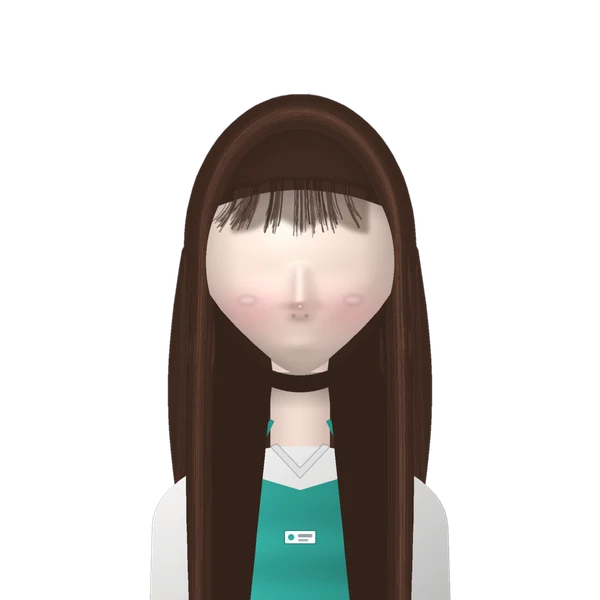
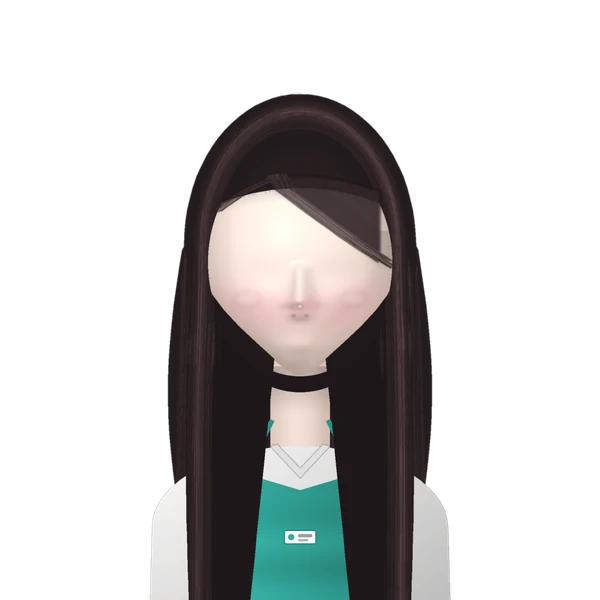
쇼호스트 얼굴 K-뷰티 스타일로 다듬기
- 사이드 스웹 프린지(왼쪽 가르마 → 오른쪽 이마 비스듬히), 긴 흑발, 아몬드형 눈(바깥 꼬리 올림)·진갈색 홍채·긴 속눈썹,
  일자 눈썹, 물광 하이라이트(광대·콧등), 넓고 옅은 복숭아 블러셔, 그라데이션 코랄 립, V 라인 턱, 목 그림자 완화
- 특정 실존 인물을 본뜨지 않은 창작 캐릭터 (레이어 9장 40KB)

Claude-Session: https://claude.ai/code/session_01QACgwmZuysuzoo8RdfQTyj

diff --git a/artifact/index.html b/artifact/index.html
@@ -14,4 +14,4 @@
   #app { position: absolute; }
 </style>
 <div id="app"></div>
-<script type="module" src="assets/index-Ck3dpsXJ.js"></script>
+<script type="module" src="assets/index-BpjJHnSh.js"></script>

diff --git a/tools/host-portrait.py b/tools/host-portrait.py
@@ -35,17 +35,17 @@ DEST = os.path.join(ROOT, 'src', 'assets', 'host')
 
 # ---------- 좌표 (600 기준) ----------
 HEAD_C = (300.0, 262.0)
-HEAD_A, HEAD_B = 100.0, 113.0  # 얼굴 타원 반경 (아래로 갈수록 좁아지는 V 라인)
+HEAD_A, HEAD_B = 98.0, 114.0  # 얼굴 타원 반경 (아래로 갈수록 좁아지는 V 라인)
 SKULL_C = (300.0, 246.0)
 SKULL_A, SKULL_B = 106.0, 146.0  # 두피(머리카락 뿌리) 타원
-EYE_Y = 276.0
+EYE_Y = 278.0
 EYE_L, EYE_R = 262.0, 338.0
-EYE_W = 26.0
+EYE_W = 27.0
 NOSE_TIP = (300.0, 309.0)
-MOUTH_Y = 337.0
-MOUTH_HW = 19.0
+MOUTH_Y = 335.0
+MOUTH_HW = 19.5
 NECK_HW = 30.0
-HAIRLINE = 190.0  # 이마 헤어라인(가운데)
+HAIRLINE = 188.0  # 이마 헤어라인(가운데)
 
 Yg, Xg = np.mgrid[0:S, 0:S].astype(np.float32)
 Xf = Xg / K
@@ -108,7 +108,7 @@ def ellipse_mask(cx, cy, a, b, taper=0.0):
 
 # ---------- 피부 ----------
 def face_height():
-    m, r = ellipse_mask(*HEAD_C, HEAD_A, HEAD_B, taper=0.52)
+    m, r = ellipse_mask(*HEAD_C, HEAD_A, HEAD_B, taper=0.62)
     h = np.sqrt(np.clip(1 - r * r, 0, 1)) * 120.0
     for ex in (EYE_L, EYE_R):
         h = h - gauss(ex, EYE_Y - 1, 24, 12, 5)
@@ -125,7 +125,7 @@ def face_height():
     return h, m
 
 
-def shade(albedo, h, key=(-0.4, -0.5, 0.77), fill=(0.6, 0.1, 0.8), amb=0.74, kd=0.27, kf=0.08, spec=0.03, shin=70):
+def shade(albedo, h, key=(-0.4, -0.5, 0.77), fill=(0.6, 0.1, 0.8), amb=0.77, kd=0.25, kf=0.08, spec=0.03, shin=70):
     gy, gx = np.gradient(h)
     gx = gx * K
     gy = gy * K
@@ -148,11 +148,12 @@ def shade(albedo, h, key=(-0.4, -0.5, 0.77), fill=(0.6, 0.1, 0.8), amb=0.74, kd=
 
 
 def skin_albedo():
-    base = np.array([1.0, 0.915, 0.87], np.float32)
+    base = np.array([1.0, 0.925, 0.885], np.float32)
     alb = np.ones((S, S, 3), np.float32) * base
     # 볼 홍조(복숭아빛) · 코끝 아주 살짝 · 눈가 약간
-    cheek = gauss(250, 310, 27, 16, 1.0) + gauss(350, 310, 27, 16, 1.0)
-    alb += cheek[..., None] * np.array([0.0, -0.10, -0.06])
+    # 복숭아빛 블러셔: 광대에서 콧등까지 넓고 옅게
+    cheek = gauss(252, 308, 30, 15, 1.0, rot=0.25) + gauss(348, 308, 30, 15, 1.0, rot=-0.25) + 0.4 * gauss(300, 300, 22, 6, 1.0)
+    alb += cheek[..., None] * np.array([0.0, -0.085, -0.05])
     nose = gauss(*NOSE_TIP, 9, 7, 1.0)
     alb += nose[..., None] * np.array([0.0, -0.03, -0.025])
     return np.clip(alb, 0, 1)
@@ -163,14 +164,14 @@ def hairline_y(x):
 
 
 # ---------- 머리카락 ----------
-HAIR_DARK = (60, 40, 32)
-HAIR_MID = (92, 62, 50)
+HAIR_DARK = (36, 28, 30)
+HAIR_MID = (64, 50, 50)
 
 
 def hair_color(lum, a=1.0):
-    r = int(min(255, 52 + 160 * lum))
-    g = int(min(255, 34 + 110 * lum))
-    b = int(min(255, 28 + 86 * lum))
+    r = int(min(255, 34 + 165 * lum))
+    g = int(min(255, 26 + 125 * lum))
+    b = int(min(255, 28 + 125 * lum))
     return (r, g, b, int(255 * a))
 
 
@@ -226,7 +227,7 @@ def draw_front_hair():
         poly = []
         for y in np.linspace(230, 600, 24):
             dyn = (y - HEAD_C[1]) / HEAD_B
-            tap = 1 - 0.52 * min(1.0, max(0.0, dyn)) ** 2
+            tap = 1 - 0.62 * min(1.0, max(0.0, dyn)) ** 2
             face_x = HEAD_A * tap * math.sqrt(max(0.0, 1 - dyn * dyn)) if abs(dyn) < 1 else 0.0
             # 얼굴 안쪽으로 살짝(10px) 겹쳐 얼굴 옆선을 덮고, 턱 아래로는 목 옆을 따라 내려간다
             inner_x = (300 + sgn * (face_x - 2 + 2 * math.sin((y - 230) / 22))) if y < 362 else 300 + sgn * (26 + (y - 362) * 0.1)
@@ -280,29 +281,52 @@ def draw_front_hair():
             y = 340 + rng.uniform(-14, 14) + abs(x - 300 - sgn * 98) * 0.5
             gd.line([P(x, y - 18), P(x + sgn * 1.2, y + 18)], fill=hair_color(rng.uniform(0.45, 0.8), rng.uniform(0.12, 0.3)), width=max(1, int(K * rng.uniform(0.5, 1.0))))
     hair.alpha_composite(with_mask(blur(gl, 0.6), total))
-    # 시스루 뱅: 이마 위로 가늘게 떨어지는 앞머리 (피부가 비쳐 보이게 성글게)
-    bang = new_layer()
-    bd = ImageDraw.Draw(bang)
-    # 뱅 바탕: 반투명 페더링 면 (피부가 비치는 시스루)
-    bfill = new_layer()
-    bfd = ImageDraw.Draw(bfill)
-    top = [P(x, hairline_y(x) - 12) for x in np.linspace(232, 368, 40)]
-    bottom = [P(x, hairline_y(x) + 32 + 7 * math.sin((x - 232) / 9.0) * (1 - abs(x - 300) / 80)) for x in np.linspace(368, 232, 40)]
-    bfd.polygon(top + bottom, fill=hair_color(0.12, 0.5))
-    hair.alpha_composite(blur(bfill, 2.2))
-    clusters = [rng.uniform(232, 368) for _ in range(14)]
-    for i in range(130):
-        c = rng.choice(clusters)
-        x0 = c + rng.gauss(0, 2.2)
-        y0 = hairline_y(x0) - 10
-        sway = (x0 - 300) / 55
+    # 옆으로 넘긴 앞머리(사이드 스웹 프린지): 왼쪽 가르마(x≈272)에서 오른쪽 아래로 쓸어 넘겨 이마 오른쪽을 비스듬히 덮는다
+    fringe = new_layer()
+    frd = ImageDraw.Draw(fringe)
+    under = new_layer()
+    und = ImageDraw.Draw(under)
+    sweep = []
+    for k in range(40):
+        t = k / 39
+        x = 268 + 112 * t
+        y = hairline_y(268) - 8 + 78 * t ** 1.1 + 4 * math.sin(t * 3.0)
+        sweep.append((x, y))
+    # 밑면(반투명) — 가르마에서 시작해 쓸어 넘긴 머리의 두께
+    poly = [P(x, hairline_y(x) - 12) for x in np.linspace(268, 380, 30)] + [P(*pt) for pt in sweep[::-1]]
+    und.polygon(poly, fill=hair_color(0.1, 0.9))
+    fringe.alpha_composite(blur(under, 1.2))
+    for i in range(260):
+        t0 = rng.random() ** 0.8
+        x0 = 268 + 16 * t0 + rng.uniform(-3, 3)
+        y0 = hairline_y(x0) - 12 + rng.uniform(-4, 2)
+        reach = rng.uniform(0.55, 1.0)
         pts3 = [P(x0, y0)]
-        length = rng.uniform(36, 58) * (1 - 0.3 * abs(x0 - 300) / 70) + rng.gauss(0, 2)
-        for k in range(1, 9):
-            t = k / 8
-            pts3.append(P(x0 + sway * 14 * t * t + rng.uniform(-0.25, 0.25), y0 + length * t))
-        bd.line(pts3, fill=hair_color(rng.uniform(0.0, 0.2), rng.uniform(0.55, 0.95)), width=max(1, int(K * rng.uniform(0.7, 1.5))))
-    hair.alpha_composite(blur(bang, 0.3))
+        for k in range(1, 12):
+            t = k / 11 * reach
+            x = x0 + 112 * t + rng.uniform(-0.3, 0.3)
+            y = y0 + 4 + 78 * t ** 1.1 + 4 * math.sin(t * 3.0) + rng.uniform(-0.3, 0.3) + 10 * t0
+            pts3.append(P(x, y))
+        frd.line(pts3, fill=hair_color(rng.uniform(0.0, 0.3), rng.uniform(0.6, 0.95)), width=max(1, int(K * rng.uniform(0.7, 1.5))))
+    # 왼쪽으로 짧게 넘어가는 몇 가닥 (관자놀이 덮기)
+    for i in range(40):
+        x0 = 268 + rng.uniform(-4, 4)
+        y0 = hairline_y(x0) - 10 + rng.uniform(-3, 3)
+        pts3 = [P(x0, y0)]
+        for k in range(1, 8):
+            t = k / 7
+            pts3.append(P(x0 - 48 * t - rng.uniform(0, 0.4), y0 + 2 + 26 * t ** 1.4 + rng.uniform(-0.3, 0.3)))
+        frd.line(pts3, fill=hair_color(rng.uniform(0.0, 0.3), rng.uniform(0.6, 0.95)), width=max(1, int(K * rng.uniform(0.7, 1.4))))
+    hair.alpha_composite(blur(fringe, 0.25))
+    baby = new_layer()
+    bbd = ImageDraw.Draw(baby)
+    for i in range(80):
+        x0 = rng.uniform(214, 386)
+        y0 = hairline_y(x0) + rng.uniform(-1, 3)
+        dirx = (x0 - 300) / 90 + rng.uniform(-0.5, 0.5)
+        pts3 = [P(x0, y0), P(x0 + dirx * 3, y0 - 3 - rng.uniform(0, 3)), P(x0 + dirx * 7, y0 - 6 - rng.uniform(0, 5))]
+        bbd.line(pts3, fill=hair_color(rng.uniform(0.05, 0.3), rng.uniform(0.25, 0.6)), width=max(1, int(K * 0.6)))
+    hair.alpha_composite(blur(baby, 0.2))
     # 윤곽 밖 잔머리
     fly = new_layer()
     fd = ImageDraw.Draw(fly)
@@ -329,7 +353,7 @@ def draw_base():
     neck_mask = (np.abs(nx) < 1) & (Yf > 330) & (Yf < 470)
     nh = np.where(neck_mask, np.sqrt(np.clip(1 - nx * nx, 0, 1)) * 40, 0)
     neck_rgb = shade(skin_albedo() * 0.985, nh, amb=0.74, kd=0.2)
-    shadow = 1 - 0.30 * np.clip(1 - (Yf - 384) / 26, 0, 1) * (Yf > 372)
+    shadow = 1 - 0.20 * np.clip(1 - (Yf - 378) / 34, 0, 1) * (Yf > 366)
     neck_rgb *= shadow[..., None]
     layer.alpha_composite(to_img(neck_rgb, neck_mask.astype(np.float32)))
     # --- 블라우스 + 앞치마 (어깨는 좁고 둥글게) ---
@@ -361,11 +385,14 @@ def draw_base():
     sd.rounded_rectangle([P(298, 539), P(308, 541)], radius=1 * K, fill=(170, 180, 185, 255))
     # --- 얼굴 피부 ---
     h, m = face_height()
-    _, r_face = ellipse_mask(*HEAD_C, HEAD_A, HEAD_B, taper=0.52)
+    _, r_face = ellipse_mask(*HEAD_C, HEAD_A, HEAD_B, taper=0.62)
     rgb = shade(skin_albedo(), h)
     # 앞머리·옆머리 그늘 (이마 윗부분, 얼굴 양옆)
     hl = hairline_y(Xf)
-    rgb *= (1 - 0.14 * np.clip((hl + 18 - Yf) / 18, 0, 1) * (Yf > hl - 2))[..., None]
+    rgb *= (1 - 0.10 * np.clip((hl + 12 - Yf) / 12, 0, 1) * (Yf > hl - 2))[..., None]
+    # 쓸어 넘긴 앞머리 아래 그늘 (이마 오른쪽, 비스듬히)
+    fr_y = hairline_y(268) - 8 + 78 * np.clip((Xf - 268) / 112, 0, 1) ** 1.1
+    rgb *= (1 - 0.12 * np.clip((fr_y + 10 - Yf) / 10, 0, 1) * (Yf > fr_y - 30) * (Xf > 272))[..., None]
     side_sh = np.clip((np.abs(Xf - 300) - 62) / 36, 0, 1) * (Yf < 372) * (Yf > 200)
     rgb *= (1 - 0.12 * side_sh)[..., None]
     # 턱선 둥글게: 얼굴 아래쪽 가장자리로 갈수록 살짝 어둡게
@@ -385,12 +412,14 @@ def draw_base():
     for sgn in (-1, 1):
         nd.ellipse([P(300 + sgn * 6.5 - 1.6, 314.5), P(300 + sgn * 6.5 + 1.6, 316.7)], fill=(170, 110, 105, 110))
     layer.alpha_composite(blur(nos, 0.7))
-    # 볼 하이라이트(촉촉함)
+    # 물광 하이라이트: 광대·콧등·이마·턱
     hi = new_layer()
     hd = ImageDraw.Draw(hi)
-    hd.ellipse([P(238, 296), P(256, 304)], fill=(255, 250, 248, 70))
-    hd.ellipse([P(344, 296), P(362, 304)], fill=(255, 250, 248, 70))
-    layer.alpha_composite(blur(hi, 2.0))
+    hd.ellipse([P(234, 292), P(260, 306)], fill=(255, 250, 248, 40))
+    hd.ellipse([P(340, 292), P(366, 306)], fill=(255, 250, 248, 40))
+    hd.line([P(300, 266), P(300, 298)], fill=(255, 250, 246, 34), width=int(2 * K))
+    hd.ellipse([P(293, 360), P(307, 366)], fill=(255, 248, 244, 55))
+    layer.alpha_composite(blur(hi, 3.2))
     # --- 앞머리 ---
     layer.alpha_composite(draw_front_hair())
     return layer
@@ -400,17 +429,17 @@ def draw_base():
 def eye_curves(cx, side, o):
     """o=뜬 정도 0..1. side -1 왼눈 +1 오른눈(바깥쪽 방향). 바깥 끝이 살짝 올라간 아몬드형"""
     w = EYE_W
-    hu = 15.0 * o
-    hl = 7.5 * (0.5 + 0.5 * o)
-    inner = (cx - w * side, EYE_Y + 2.5)
-    outer = (cx + w * side, EYE_Y - 1.5 - 1.0 * o)
+    hu = 13.5 * o
+    hl = 7.0 * (0.5 + 0.5 * o)
+    inner = (cx - w * side, EYE_Y + 3.0)
+    outer = (cx + w * side, EYE_Y - 3.0 - 1.0 * o)
     up, lo = [], []
     for k in range(41):
         t = k / 40
         u = -1 + 2 * t
         x = inner[0] + (outer[0] - inner[0]) * t
         base_y = inner[1] + (outer[1] - inner[1]) * t
-        f = max(0.0, 1 - u * u) ** 0.7 * (1 + 0.12 * u)
+        f = max(0.0, 1 - u * u) ** 0.65 * (1 + 0.16 * u)
         up.append((x, base_y - hu * f))
         g = max(0.0, 1 - u * u) ** 0.85
         lo.append((x, base_y + hl * g))
@@ -432,7 +461,7 @@ def draw_eyes(o):
         sc *= (0.94 + 0.06 * np.clip(1 - np.abs(Xf - cx) / EYE_W, 0, 1))[..., None]
         layer.alpha_composite(to_img(sc, ca))
         # 홍채: 크게(눈 폭의 60%), 따뜻한 갈색, 아래쪽이 밝은 그라데이션
-        icx, icy, r = cx + 0.4 * side, EYE_Y + 1.0, 15.6
+        icx, icy, r = cx + 0.6 * side, EYE_Y + 1.2, 15.2
         dx, dy = Xf - icx, Yf - icy
         rr = np.sqrt(dx * dx + dy * dy) / r
         ang = np.arctan2(dy, dx)
@@ -442,9 +471,9 @@ def draw_eyes(o):
         lum = lum * (0.85 + 0.3 * fibers * np.clip(1 - np.abs(rr - 0.6) / 0.4, 0, 1))
         lum *= 1 - 0.6 * smoothstep(0.86, 1.0, rr)  # 테두리 어둡게
         lum *= 1 - 0.3 * np.clip(1 - (Yf - (icy - r)) / 7, 0, 1)  # 윗꺼풀 그늘
-        iris = np.stack([0.50 * lum * 1.15, 0.30 * lum * 1.0, 0.20 * lum * 0.95], -1)
-        # 홍채 아래쪽에 호박빛 반사
-        iris += (np.clip(dy / r - 0.2, 0, 1) * 0.35 * inside)[..., None] * np.array([0.45, 0.30, 0.12])
+        iris = np.stack([0.34 * lum * 1.1, 0.21 * lum * 1.0, 0.17 * lum * 1.0], -1)
+        # 홍채 아래쪽에 갈색 반사
+        iris += (np.clip(dy / r - 0.25, 0, 1) * 0.30 * inside)[..., None] * np.array([0.40, 0.24, 0.12])
         ir = to_img(np.clip(iris, 0, 1), inside * ca)
         pd = ImageDraw.Draw(ir)
         pr = 6.2
@@ -457,13 +486,13 @@ def draw_eyes(o):
         # 속눈썹 라인(부드러운 다크 브라운) + 바깥쪽 긴 속눈썹 몇 가닥
         lash = new_layer()
         ld = ImageDraw.Draw(lash)
-        ld.line([P(*p) for p in up], fill=(58, 34, 30, 235), width=int(1.9 * K))
+        ld.line([P(*p) for p in up], fill=(48, 30, 30, 240), width=int(1.9 * K))
         ld.line([P(*up[-1]), P(up[-1][0] + 4.5 * side, up[-1][1] - 2.4)], fill=(58, 34, 30, 220), width=int(1.5 * K))
         for k in range(14, 40, 3):
             x, y = up[k]
             u = -1 + 2 * (k / 40)
             ang2 = math.radians(-90 + side * (20 + 42 * u))
-            ln = (4.0 + 5.0 * max(0.0, u)) * (0.5 + 0.5 * o)
+            ln = (4.5 + 6.0 * max(0.0, u)) * (0.5 + 0.5 * o)
             xm = x + math.cos(ang2) * ln * 0.5
             ym = y + math.sin(ang2) * ln * 0.55
             x2 = x + math.cos(ang2) * ln + side * 0.8
@@ -511,19 +540,19 @@ def draw_brows():
         for k in range(31):
             t = k / 30
             x = cx + side * (-20 + 46 * t)
-            y = EYE_Y - 25 - 4.5 * math.sin(math.pi * min(1, t * 1.1)) + 4 * max(0, t - 0.75) * 4
+            y = EYE_Y - 26 - 3.0 * math.sin(math.pi * min(1, t * 1.1)) + 4 * max(0, t - 0.75) * 3
             pts.append((x, y))
         under = new_layer()
         ud = ImageDraw.Draw(under)
         for k in range(30):
             w = (3.2 - 1.6 * max(0, (k / 30) - 0.5) * 2) * K
-            ud.line([P(*pts[k]), P(*pts[k + 1])], fill=(118, 84, 70, 185), width=max(1, int(w)))
+            ud.line([P(*pts[k]), P(*pts[k + 1])], fill=(96, 68, 60, 200), width=max(1, int(w)))
         layer.alpha_composite(blur(under, 1.1))
         d = ImageDraw.Draw(layer)
         for i in range(120):
             t = rng.random() ** 0.9
             x = cx + side * (-20 + 46 * t) + rng.uniform(-0.6, 0.6)
-            y = EYE_Y - 25 - 4.5 * math.sin(math.pi * min(1, t * 1.1)) + 4 * max(0, t - 0.75) * 4 + rng.uniform(-1.2, 1.2)
+            y = EYE_Y - 26 - 3.0 * math.sin(math.pi * min(1, t * 1.1)) + 4 * max(0, t - 0.75) * 3 + rng.uniform(-1.2, 1.2)
             ang = math.radians((-70 + 80 * t) if t < 0.5 else (8 + 14 * (t - 0.5)))
             if side < 0:
                 ang = math.pi - ang
@@ -540,7 +569,7 @@ def draw_mouth(state):
     gap = {'closed': 0.0, 'mid': 4.0, 'open': 8.5}[state]
     hw = MOUTH_HW + (0 if state == 'closed' else 1.0)
     cy = MOUTH_Y
-    corner_up = 3.2 if state == 'closed' else 2.0
+    corner_up = 3.4 if state == 'closed' else 2.2
     lc = (300 - hw, cy - corner_up)
     rc = (300 + hw, cy - corner_up)
     up_top, up_bot, lo_top, lo_bot = [], [], [], []
@@ -576,8 +605,8 @@ def draw_mouth(state):
     # 입술: 코랄 핑크, 글로시
     lips = new_layer()
     ld = ImageDraw.Draw(lips)
-    ld.polygon([P(*p) for p in (up_top + up_bot[::-1])], fill=(226, 118, 128, 255))
-    ld.polygon([P(*p) for p in (lo_top + lo_bot[::-1])], fill=(240, 140, 148, 255))
+    ld.polygon([P(*p) for p in (up_top + up_bot[::-1])], fill=(238, 142, 140, 255))
+    ld.polygon([P(*p) for p in (lo_top + lo_bot[::-1])], fill=(246, 160, 156, 255))
     la = np.asarray(lips).astype(np.float32)
     upper = Yf < cy - gap * 0.2
     sh = np.where(upper, 1 - 0.14 * np.clip((Yf - (cy - 6)) / 6, 0, 1), 1.0)
@@ -585,7 +614,13 @@ def draw_mouth(state):
     sh = sh * (1 + 0.40 * low_hi * (~upper)) * np.where(~upper, 1 - 0.22 * np.clip((Yf - (cy + 5 + gap * 0.45)) / 5, 0, 1), 1)
     sh = sh * (1 - 0.30 * np.clip((np.abs(Xf - 300) - hw * 0.6) / (hw * 0.4), 0, 1))
     la[..., :3] *= sh[..., None]
-    lips = blur(Image.fromarray(np.clip(la, 0, 255).astype(np.uint8), 'RGBA'), 0.45)
+    # 그라데이션 립: 안쪽(입선 근처)은 진한 코랄, 바깥은 피부로 번지듯
+    core = np.exp(-0.5 * (((Xf - 300) / (hw * 0.55)) ** 2 + ((Yf - cy - gap * 0.2) / 4.5) ** 2))
+    la[..., 0] = la[..., 0] * (1 - 0.02 * core)
+    la[..., 1] = la[..., 1] * (1 - 0.30 * core)
+    la[..., 2] = la[..., 2] * (1 - 0.28 * core)
+    la[..., 3] *= 1 - 0.35 * np.clip((np.abs(Xf - 300) - hw * 0.7) / (hw * 0.3), 0, 1)
+    lips = blur(Image.fromarray(np.clip(la, 0, 255).astype(np.uint8), 'RGBA'), 0.8)
     layer.alpha_composite(lips)
     line = new_layer()
     lnd = ImageDraw.Draw(line)
